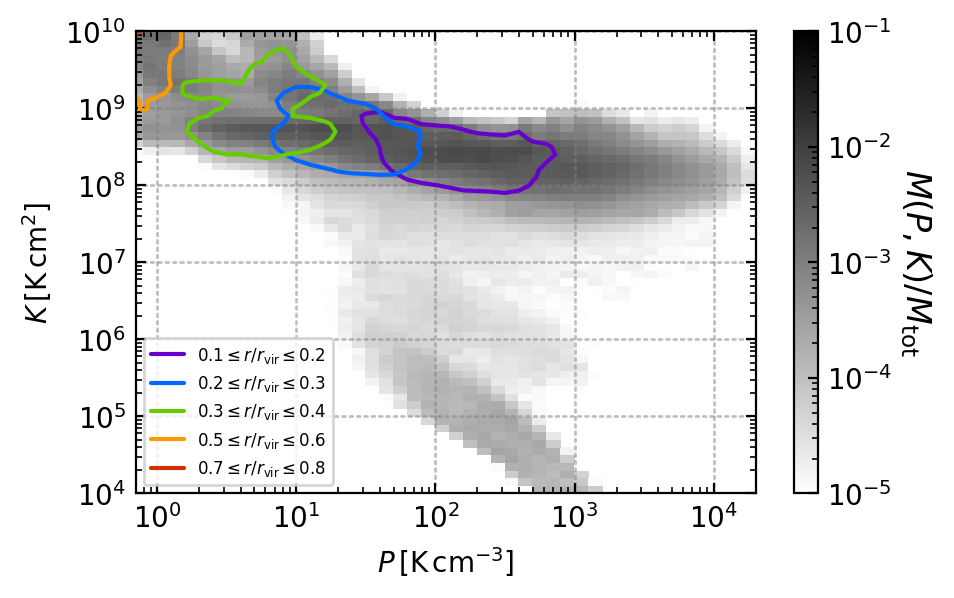
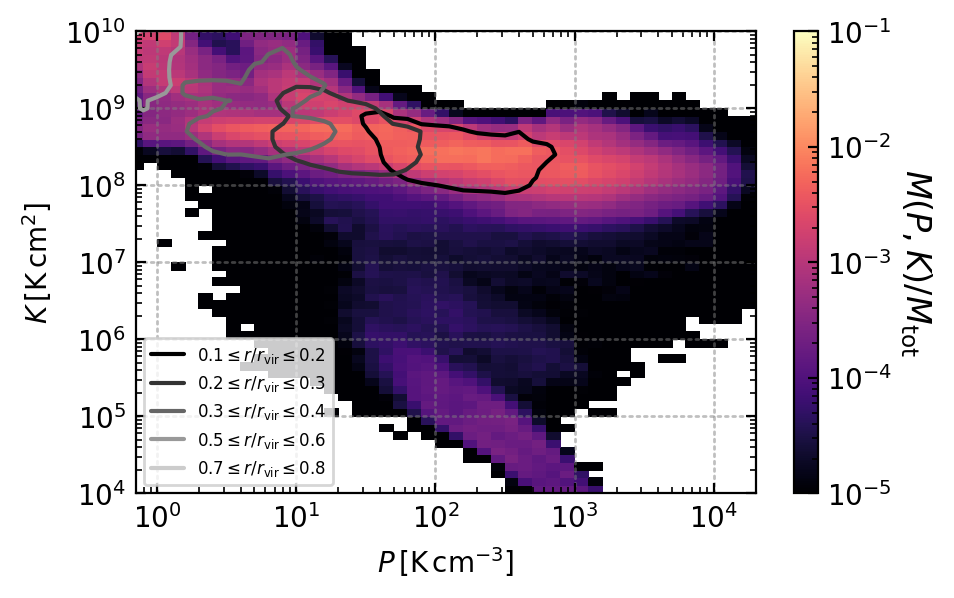
updates

diff --git a/paper_plotter.py b/paper_plotter.py
@@ -910,37 +910,88 @@ def plotter(data,fn):
     fig,ax = plt.subplots(1,1)
     plot=ax.pcolormesh(data['pressure_bins'], data['entropy_bins'], 
         np.sum(data['pressure_entropy_Mass'][...,:10],axis=-1)/np.sum(data['pressure_entropy_Mass'][...,:10]),
-        norm=colors.LogNorm(vmin=1e-5, vmax=1e-1), cmap='binary')
+        norm=colors.LogNorm(vmin=1e-5, vmax=1e-1), cmap='magma')
     cb = fig.colorbar(plot)
     cb.set_label(r'$M(P,K)/M_{\rm tot}$',rotation=270,fontsize=12,labelpad=15)
 
     ir = 1
     plot=ax.contour(data['pressure_bins'][:-1], data['entropy_bins'][:-1], 
         (data['pressure_entropy_Mass'][...,ir]/np.sum(data['pressure_entropy_Mass'][...,ir])),
+        [3e-3], colors='0.0',norm=colors.LogNorm(),antialiased=True)
+    ax.plot([1e-2,1e-2], [1e11,1e11], color='0.0', label=r'$'+str( np.round((data['r_r200m_phase']-np.diff(data['r_r200m_phase'])[0]/2.)[ir],1) )+r'\leq r/r_{\rm vir}\leq'+str( np.round( (data['r_r200m_phase']+np.diff(data['r_r200m_phase'])[0]/2.)[ir],1) )+r'$')
+
+    ir = 2
+    plot=ax.contour(data['pressure_bins'][:-1], data['entropy_bins'][:-1], 
+        (data['pressure_entropy_Mass'][...,ir]/np.sum(data['pressure_entropy_Mass'][...,ir])),
+        [3e-3], colors='0.2',norm=colors.LogNorm(),antialiased=True)
+    ax.plot([1e-2,1e-2], [1e11,1e11], color='0.2', label=r'$'+str( np.round((data['r_r200m_phase']-np.diff(data['r_r200m_phase'])[0]/2.)[ir],1) )+r'\leq r/r_{\rm vir}\leq'+str( np.round( (data['r_r200m_phase']+np.diff(data['r_r200m_phase'])[0]/2.)[ir],1) )+r'$')
+
+    ir = 3
+    plot=ax.contour(data['pressure_bins'][:-1], data['entropy_bins'][:-1], 
+        (data['pressure_entropy_Mass'][...,ir]/np.sum(data['pressure_entropy_Mass'][...,ir])),
+        [3e-3], colors='0.4',norm=colors.LogNorm(),antialiased=True)
+    ax.plot([1e-2,1e-2], [1e11,1e11], color='0.4', label=r'$'+str( np.round((data['r_r200m_phase']-np.diff(data['r_r200m_phase'])[0]/2.)[ir],1) )+r'\leq r/r_{\rm vir}\leq'+str( np.round( (data['r_r200m_phase']+np.diff(data['r_r200m_phase'])[0]/2.)[ir],1) )+r'$')
+
+    ir = 5
+    plot=ax.contour(data['pressure_bins'][:-1], data['entropy_bins'][:-1], 
+        (data['pressure_entropy_Mass'][...,ir]/np.sum(data['pressure_entropy_Mass'][...,ir])),
+        [3e-3], colors='0.6',norm=colors.LogNorm(),antialiased=True)
+    ax.plot([1e-2,1e-2], [1e11,1e11], color='0.6', label=r'$'+str( np.round((data['r_r200m_phase']-np.diff(data['r_r200m_phase'])[0]/2.)[ir],1) )+r'\leq r/r_{\rm vir}\leq'+str( np.round( (data['r_r200m_phase']+np.diff(data['r_r200m_phase'])[0]/2.)[ir],1) )+r'$')
+
+    ir = 7
+    plot=ax.contour(data['pressure_bins'][:-1], data['entropy_bins'][:-1], 
+        (data['pressure_entropy_Mass'][...,ir]/np.sum(data['pressure_entropy_Mass'][...,ir])),
+        [3e-3], colors='0.8',norm=colors.LogNorm(),antialiased=True)
+    ax.plot([1e-2,1e-2], [1e11,1e11], color='0.8', label=r'$'+str( np.round((data['r_r200m_phase']-np.diff(data['r_r200m_phase'])[0]/2.)[ir],1) )+r'\leq r/r_{\rm vir}\leq'+str( np.round( (data['r_r200m_phase']+np.diff(data['r_r200m_phase'])[0]/2.)[ir],1) )+r'$')
+
+    ax.legend(loc='lower left', fontsize=6, ncol=1)
+    ax.set_yscale('log')
+    ax.set_xscale('log')
+    ax.set_ylim((1e4,1e10))
+    ax.set_xlim((7e-1,2e4))
+    ax.set_ylabel(r'$K\,[\mathrm{K\,cm}^{2}]$')
+    ax.set_xlabel(r'$P\,[\mathrm{K\,cm}^{-3}]$')
+    ax.grid(color='grey',linestyle=':', alpha=0.5, linewidth=1.0)
+    fig.set_size_inches(5,3)
+    plt.savefig('./plots/pressure_entropy_Mass_all_r_'+fn+'.png',bbox_inches='tight',dpi=200)
+    plt.clf()       
+
+
+
+    fig,ax = plt.subplots(1,1)
+    plot=ax.pcolormesh(data['pressure_bins'], data['entropy_bins'], 
+        np.sum(data['pressure_entropy_Volume'][...,:10],axis=-1)/np.sum(data['pressure_entropy_Volume'][...,:10]),
+        norm=colors.LogNorm(vmin=1e-7, vmax=1e-1), cmap='binary')
+    cb = fig.colorbar(plot)
+    cb.set_label(r'$V(P,K)/V_{\rm tot}$',rotation=270,fontsize=12,labelpad=15)
+
+    ir = 1
+    plot=ax.contour(data['pressure_bins'][:-1], data['entropy_bins'][:-1], 
+        (data['pressure_entropy_Volume'][...,ir]/np.sum(data['pressure_entropy_Volume'][...,ir])),
         [3e-3], colors='#6600cc',norm=colors.LogNorm(),antialiased=True)
     ax.plot([1e-2,1e-2], [1e11,1e11], color="#6600cc", label=r'$'+str( np.round((data['r_r200m_phase']-np.diff(data['r_r200m_phase'])[0]/2.)[ir],1) )+r'\leq r/r_{\rm vir}\leq'+str( np.round( (data['r_r200m_phase']+np.diff(data['r_r200m_phase'])[0]/2.)[ir],1) )+r'$')
 
     ir = 2
     plot=ax.contour(data['pressure_bins'][:-1], data['entropy_bins'][:-1], 
-        (data['pressure_entropy_Mass'][...,ir]/np.sum(data['pressure_entropy_Mass'][...,ir])),
+        (data['pressure_entropy_Volume'][...,ir]/np.sum(data['pressure_entropy_Volume'][...,ir])),
         [3e-3], colors='#0066ff',norm=colors.LogNorm(),antialiased=True)
     ax.plot([1e-2,1e-2], [1e11,1e11], color="#0066ff", label=r'$'+str( np.round((data['r_r200m_phase']-np.diff(data['r_r200m_phase'])[0]/2.)[ir],1) )+r'\leq r/r_{\rm vir}\leq'+str( np.round( (data['r_r200m_phase']+np.diff(data['r_r200m_phase'])[0]/2.)[ir],1) )+r'$')
 
     ir = 3
     plot=ax.contour(data['pressure_bins'][:-1], data['entropy_bins'][:-1], 
-        (data['pressure_entropy_Mass'][...,ir]/np.sum(data['pressure_entropy_Mass'][...,ir])),
+        (data['pressure_entropy_Volume'][...,ir]/np.sum(data['pressure_entropy_Volume'][...,ir])),
         [3e-3], colors='#66cc00',norm=colors.LogNorm(),antialiased=True)
     ax.plot([1e-2,1e-2], [1e11,1e11], color="#66cc00", label=r'$'+str( np.round((data['r_r200m_phase']-np.diff(data['r_r200m_phase'])[0]/2.)[ir],1) )+r'\leq r/r_{\rm vir}\leq'+str( np.round( (data['r_r200m_phase']+np.diff(data['r_r200m_phase'])[0]/2.)[ir],1) )+r'$')
 
     ir = 5
     plot=ax.contour(data['pressure_bins'][:-1], data['entropy_bins'][:-1], 
-        (data['pressure_entropy_Mass'][...,ir]/np.sum(data['pressure_entropy_Mass'][...,ir])),
+        (data['pressure_entropy_Volume'][...,ir]/np.sum(data['pressure_entropy_Volume'][...,ir])),
         [3e-3], colors='#ff9900',norm=colors.LogNorm(),antialiased=True)
     ax.plot([1e-2,1e-2], [1e11,1e11], color="#ff9900", label=r'$'+str( np.round((data['r_r200m_phase']-np.diff(data['r_r200m_phase'])[0]/2.)[ir],1) )+r'\leq r/r_{\rm vir}\leq'+str( np.round( (data['r_r200m_phase']+np.diff(data['r_r200m_phase'])[0]/2.)[ir],1) )+r'$')
 
     ir = 7
     plot=ax.contour(data['pressure_bins'][:-1], data['entropy_bins'][:-1], 
-        (data['pressure_entropy_Mass'][...,ir]/np.sum(data['pressure_entropy_Mass'][...,ir])),
+        (data['pressure_entropy_Volume'][...,ir]/np.sum(data['pressure_entropy_Volume'][...,ir])),
         [3e-3], colors='#cc3300',norm=colors.LogNorm(),antialiased=True)
     ax.plot([1e-2,1e-2], [1e11,1e11], color="#cc3300", label=r'$'+str( np.round((data['r_r200m_phase']-np.diff(data['r_r200m_phase'])[0]/2.)[ir],1) )+r'\leq r/r_{\rm vir}\leq'+str( np.round( (data['r_r200m_phase']+np.diff(data['r_r200m_phase'])[0]/2.)[ir],1) )+r'$')
 
@@ -953,7 +1004,109 @@ def plotter(data,fn):
     ax.set_xlabel(r'$P\,[\mathrm{K\,cm}^{-3}]$')
     ax.grid(color='grey',linestyle=':', alpha=0.5, linewidth=1.0)
     fig.set_size_inches(5,3)
-    plt.savefig('./plots/pressure_entropy_Mass_all_r_'+fn+'.png',bbox_inches='tight',dpi=200)
+    plt.savefig('./plots/pressure_entropy_Volume_all_r_'+fn+'.png',bbox_inches='tight',dpi=200)
+    plt.clf()       
+
+##############################################################################################################
+
+    fig,ax = plt.subplots(1,1)
+    plot=ax.pcolormesh(data['number_density_bins'], data['temperature_bins'], 
+        np.sum(data['density_temperature_Mass'][...,:10],axis=-1)/np.sum(data['density_temperature_Mass'][...,:10]),
+        norm=colors.LogNorm(vmin=1e-5, vmax=1e-1), cmap='magma')
+    cb = fig.colorbar(plot)
+    cb.set_label(r'$M(n,T)/M_{\rm tot}$',rotation=270,fontsize=12,labelpad=15)
+
+    ir = 1
+    plot=ax.contour(data['number_density_bins'][:-1], data['temperature_bins'][:-1], 
+        (data['density_temperature_Mass'][...,ir]/np.sum(data['density_temperature_Mass'][...,ir])),
+        [3e-3], colors='0.0',norm=colors.LogNorm(),antialiased=True)
+    ax.plot([1e-2,1e-2], [1e11,1e11], color='0.0', label=r'$'+str( np.round((data['r_r200m_phase']-np.diff(data['r_r200m_phase'])[0]/2.)[ir],1) )+r'\leq r/r_{\rm vir}\leq'+str( np.round( (data['r_r200m_phase']+np.diff(data['r_r200m_phase'])[0]/2.)[ir],1) )+r'$')
+
+    ir = 2
+    plot=ax.contour(data['number_density_bins'][:-1], data['temperature_bins'][:-1], 
+        (data['density_temperature_Mass'][...,ir]/np.sum(data['density_temperature_Mass'][...,ir])),
+        [3e-3], colors='0.2',norm=colors.LogNorm(),antialiased=True)
+    ax.plot([1e-2,1e-2], [1e11,1e11], color='0.2', label=r'$'+str( np.round((data['r_r200m_phase']-np.diff(data['r_r200m_phase'])[0]/2.)[ir],1) )+r'\leq r/r_{\rm vir}\leq'+str( np.round( (data['r_r200m_phase']+np.diff(data['r_r200m_phase'])[0]/2.)[ir],1) )+r'$')
+
+    ir = 3
+    plot=ax.contour(data['number_density_bins'][:-1], data['temperature_bins'][:-1], 
+        (data['density_temperature_Mass'][...,ir]/np.sum(data['density_temperature_Mass'][...,ir])),
+        [3e-3], colors='0.4',norm=colors.LogNorm(),antialiased=True)
+    ax.plot([1e-2,1e-2], [1e11,1e11], color='0.4', label=r'$'+str( np.round((data['r_r200m_phase']-np.diff(data['r_r200m_phase'])[0]/2.)[ir],1) )+r'\leq r/r_{\rm vir}\leq'+str( np.round( (data['r_r200m_phase']+np.diff(data['r_r200m_phase'])[0]/2.)[ir],1) )+r'$')
+
+    ir = 5
+    plot=ax.contour(data['number_density_bins'][:-1], data['temperature_bins'][:-1], 
+        (data['density_temperature_Mass'][...,ir]/np.sum(data['density_temperature_Mass'][...,ir])),
+        [3e-3], colors='0.6',norm=colors.LogNorm(),antialiased=True)
+    ax.plot([1e-2,1e-2], [1e11,1e11], color='0.6', label=r'$'+str( np.round((data['r_r200m_phase']-np.diff(data['r_r200m_phase'])[0]/2.)[ir],1) )+r'\leq r/r_{\rm vir}\leq'+str( np.round( (data['r_r200m_phase']+np.diff(data['r_r200m_phase'])[0]/2.)[ir],1) )+r'$')
+
+    ir = 7
+    plot=ax.contour(data['number_density_bins'][:-1], data['temperature_bins'][:-1], 
+        (data['density_temperature_Mass'][...,ir]/np.sum(data['density_temperature_Mass'][...,ir])),
+        [3e-3], colors='0.8',norm=colors.LogNorm(),antialiased=True)
+    ax.plot([1e-2,1e-2], [1e11,1e11], color='0.8', label=r'$'+str( np.round((data['r_r200m_phase']-np.diff(data['r_r200m_phase'])[0]/2.)[ir],1) )+r'\leq r/r_{\rm vir}\leq'+str( np.round( (data['r_r200m_phase']+np.diff(data['r_r200m_phase'])[0]/2.)[ir],1) )+r'$')
+
+    ax.legend(loc='upper right', fontsize=6, ncol=1)
+    ax.set_yscale('log')
+    ax.set_xscale('log')
+    ax.set_ylim((3e3,3e7))
+    ax.set_xlim((3e-6,1e-1))
+    ax.set_ylabel(r'$T\,[\mathrm{K}]$')
+    ax.set_xlabel(r'$n\,[\mathrm{cm}^{-3}]$')
+    ax.grid(color='grey',linestyle=':', alpha=0.5, linewidth=1.0)
+    fig.set_size_inches(5,3)
+    plt.savefig('./plots/density_temperature_Mass_all_r_'+fn+'.png',bbox_inches='tight',dpi=200)
+    plt.clf()       
+
+
+
+    fig,ax = plt.subplots(1,1)
+    plot=ax.pcolormesh(data['number_density_bins'], data['temperature_bins'], 
+        np.sum(data['density_temperature_Volume'][...,:10],axis=-1)/np.sum(data['density_temperature_Volume'][...,:10]),
+        norm=colors.LogNorm(vmin=1e-7, vmax=1e-1), cmap='binary')
+    cb = fig.colorbar(plot)
+    cb.set_label(r'$V(P,K)/V_{\rm tot}$',rotation=270,fontsize=12,labelpad=15)
+
+    ir = 1
+    plot=ax.contour(data['number_density_bins'][:-1], data['temperature_bins'][:-1], 
+        (data['density_temperature_Volume'][...,ir]/np.sum(data['density_temperature_Volume'][...,ir])),
+        [3e-3], colors='#6600cc',norm=colors.LogNorm(),antialiased=True)
+    ax.plot([1e-2,1e-2], [1e11,1e11], color="#6600cc", label=r'$'+str( np.round((data['r_r200m_phase']-np.diff(data['r_r200m_phase'])[0]/2.)[ir],1) )+r'\leq r/r_{\rm vir}\leq'+str( np.round( (data['r_r200m_phase']+np.diff(data['r_r200m_phase'])[0]/2.)[ir],1) )+r'$')
+
+    ir = 2
+    plot=ax.contour(data['number_density_bins'][:-1], data['temperature_bins'][:-1], 
+        (data['density_temperature_Volume'][...,ir]/np.sum(data['density_temperature_Volume'][...,ir])),
+        [3e-3], colors='#0066ff',norm=colors.LogNorm(),antialiased=True)
+    ax.plot([1e-2,1e-2], [1e11,1e11], color="#0066ff", label=r'$'+str( np.round((data['r_r200m_phase']-np.diff(data['r_r200m_phase'])[0]/2.)[ir],1) )+r'\leq r/r_{\rm vir}\leq'+str( np.round( (data['r_r200m_phase']+np.diff(data['r_r200m_phase'])[0]/2.)[ir],1) )+r'$')
+
+    ir = 3
+    plot=ax.contour(data['number_density_bins'][:-1], data['temperature_bins'][:-1], 
+        (data['density_temperature_Volume'][...,ir]/np.sum(data['density_temperature_Volume'][...,ir])),
+        [3e-3], colors='#66cc00',norm=colors.LogNorm(),antialiased=True)
+    ax.plot([1e-2,1e-2], [1e11,1e11], color="#66cc00", label=r'$'+str( np.round((data['r_r200m_phase']-np.diff(data['r_r200m_phase'])[0]/2.)[ir],1) )+r'\leq r/r_{\rm vir}\leq'+str( np.round( (data['r_r200m_phase']+np.diff(data['r_r200m_phase'])[0]/2.)[ir],1) )+r'$')
+
+    ir = 5
+    plot=ax.contour(data['number_density_bins'][:-1], data['temperature_bins'][:-1], 
+        (data['density_temperature_Volume'][...,ir]/np.sum(data['density_temperature_Volume'][...,ir])),
+        [3e-3], colors='#ff9900',norm=colors.LogNorm(),antialiased=True)
+    ax.plot([1e-2,1e-2], [1e11,1e11], color="#ff9900", label=r'$'+str( np.round((data['r_r200m_phase']-np.diff(data['r_r200m_phase'])[0]/2.)[ir],1) )+r'\leq r/r_{\rm vir}\leq'+str( np.round( (data['r_r200m_phase']+np.diff(data['r_r200m_phase'])[0]/2.)[ir],1) )+r'$')
+
+    ir = 7
+    plot=ax.contour(data['number_density_bins'][:-1], data['temperature_bins'][:-1], 
+        (data['density_temperature_Volume'][...,ir]/np.sum(data['density_temperature_Volume'][...,ir])),
+        [3e-3], colors='#cc3300',norm=colors.LogNorm(),antialiased=True)
+    ax.plot([1e-2,1e-2], [1e11,1e11], color="#cc3300", label=r'$'+str( np.round((data['r_r200m_phase']-np.diff(data['r_r200m_phase'])[0]/2.)[ir],1) )+r'\leq r/r_{\rm vir}\leq'+str( np.round( (data['r_r200m_phase']+np.diff(data['r_r200m_phase'])[0]/2.)[ir],1) )+r'$')
+
+    ax.legend(loc='lower left', fontsize=6, ncol=1)
+    ax.set_yscale('log')
+    ax.set_xscale('log')
+    ax.set_ylim((3e3,3e7))
+    ax.set_xlim((3e-6,1e-1))
+    ax.set_ylabel(r'$T\,[\mathrm{K}]$')
+    ax.set_xlabel(r'$n\,[\mathrm{cm}^{-3}]$')
+    ax.grid(color='grey',linestyle=':', alpha=0.5, linewidth=1.0)
+    fig.set_size_inches(5,3)
+    plt.savefig('./plots/density_temperature_Volume_all_r_'+fn+'.png',bbox_inches='tight',dpi=200)
     plt.clf()       
 
 ##############################################################################################################
@@ -1342,7 +1495,14 @@ data = averager(files)
 plotter(data, "daniel_M12_TNG100_quenched_averaged")
 
 
+fn = './data/simulations/daniel_M12_TNG100_quenched/Subhalo536830_snap099_TNG100.npz'
+data = np.load(fn)
+plotter(data,fn.split('/')[-1][:-4])
 
+
+fn = './data/simulations/daniel_M12_TNG100_starforming/Subhalo518236_snap099_TNG100.npz'
+data = np.load(fn)
+plotter(data,fn.split('/')[-1][:-4])
 
 
 
